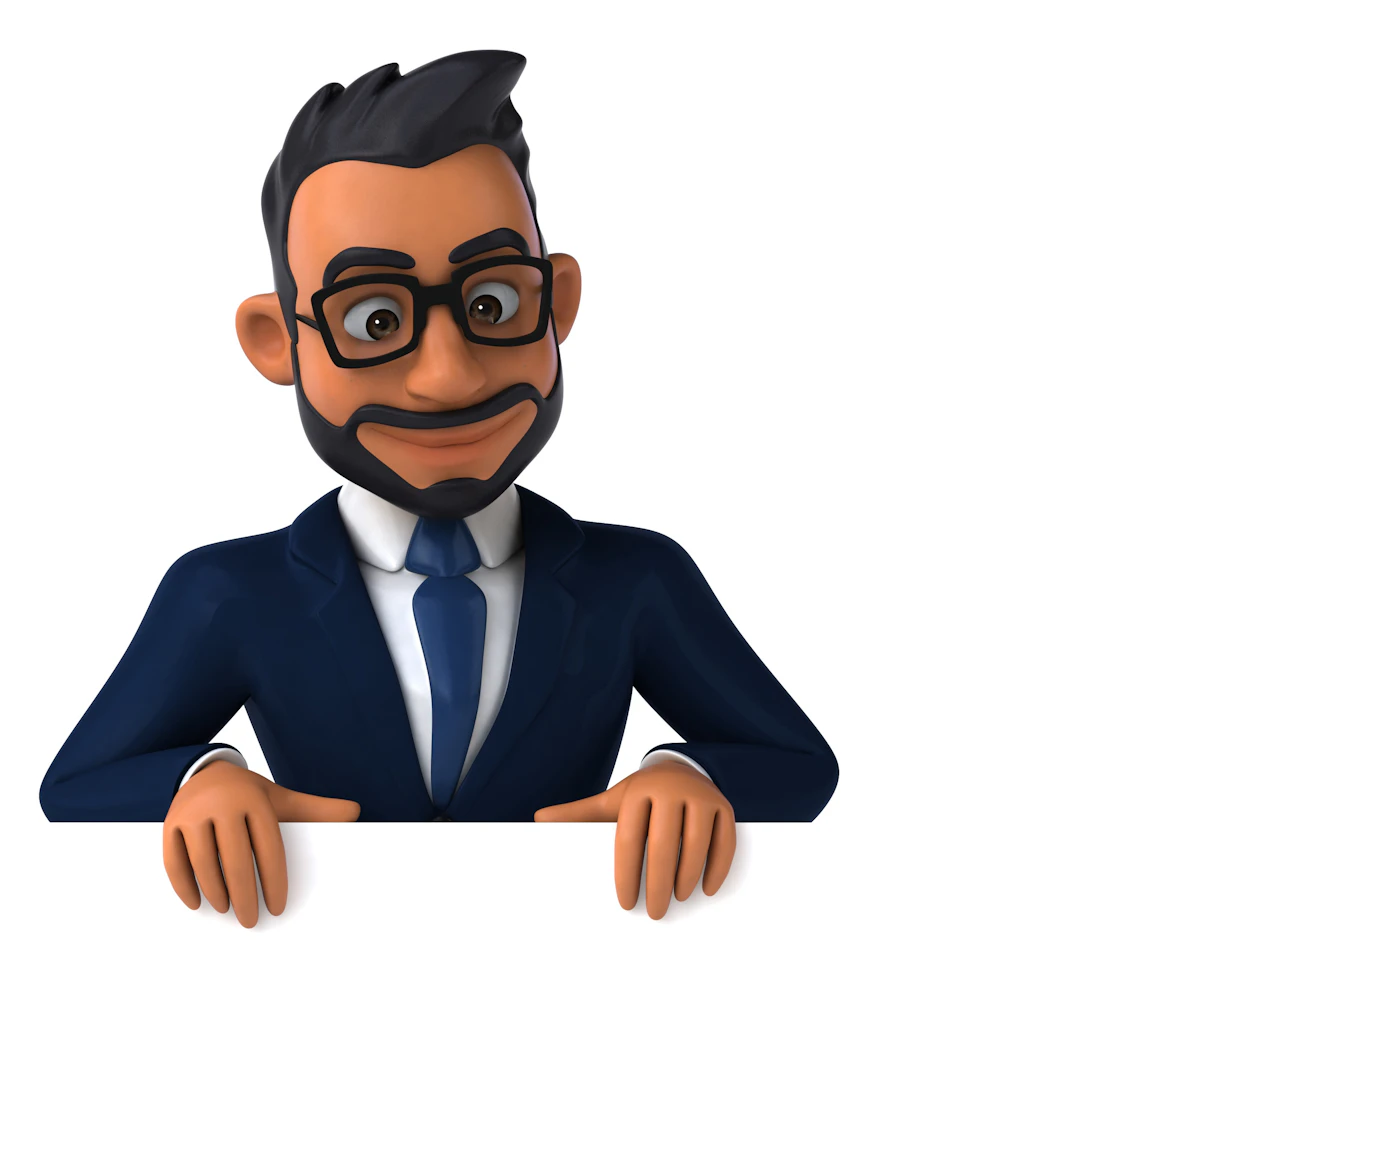
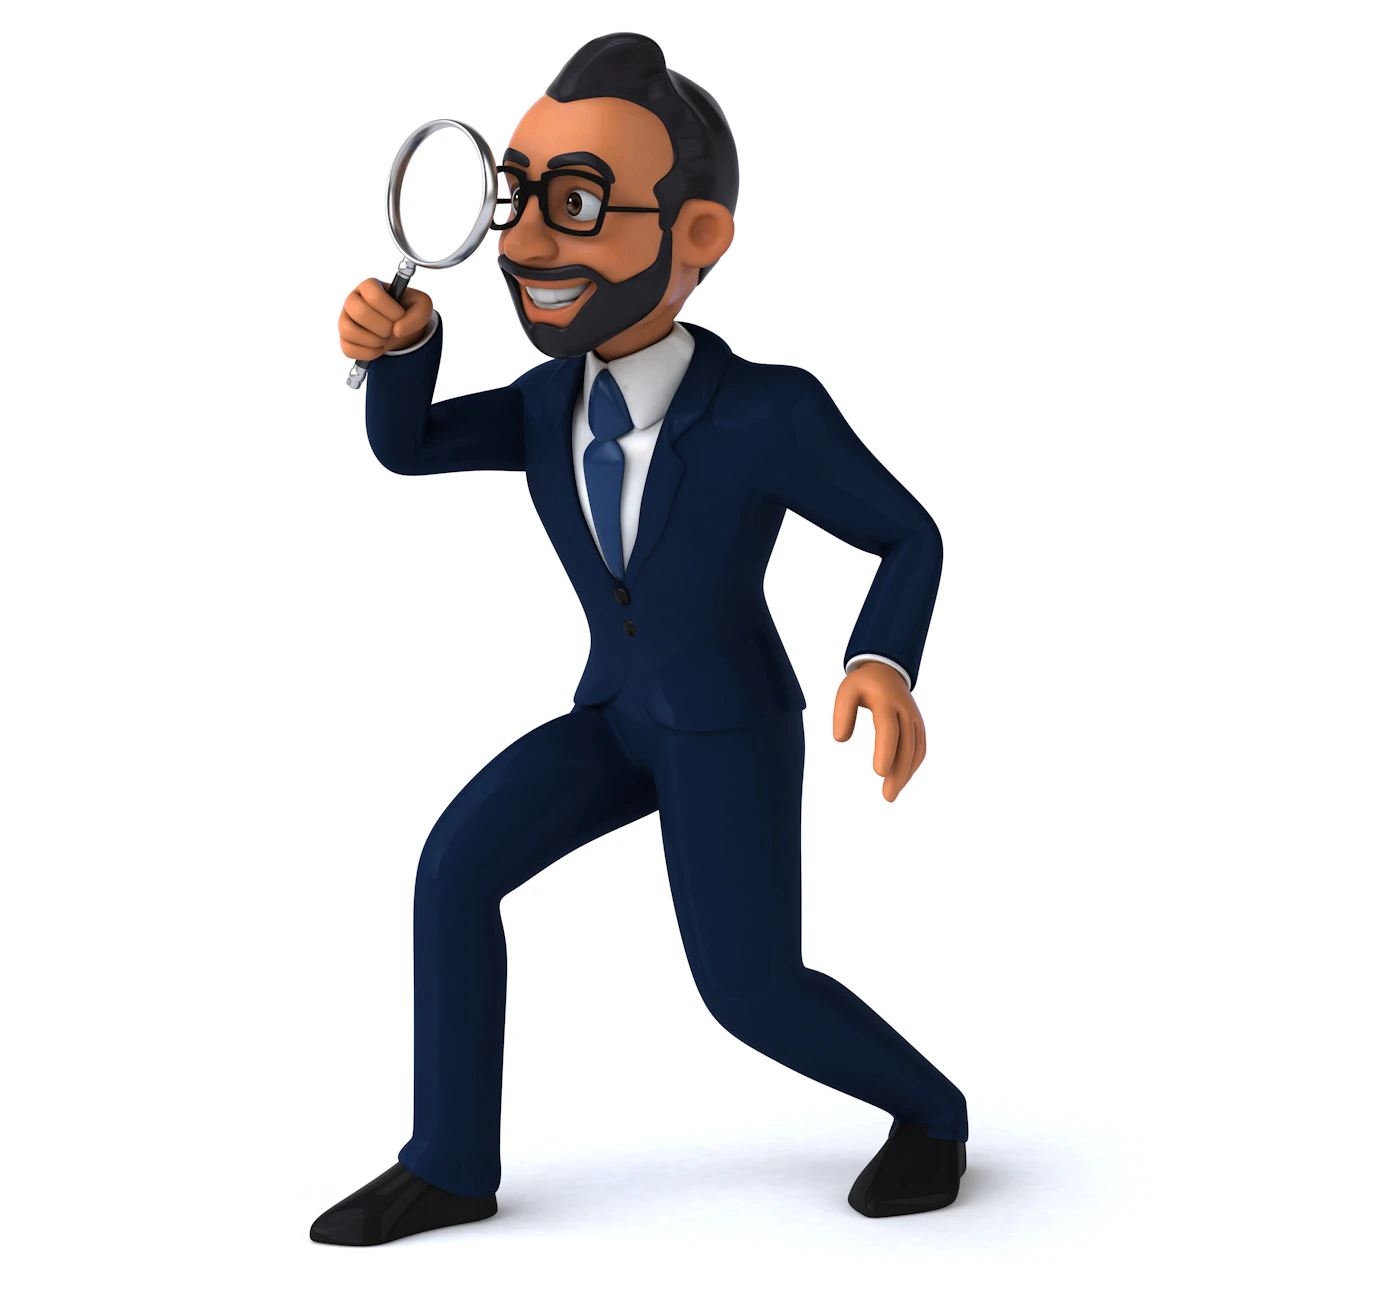
clor.in hero: full-figure 3D pose with the magnifying glass
Same character series by Julien Tromeur (Unsplash photo Ni5whKlGzI8,
Unsplash License), set on a white ground at 1400x1300.

Changed region(s): [[0.0307, 0.0, 0.7371, 0.9871]]

diff --git a/website/src/pages/Home.jsx b/website/src/pages/Home.jsx
@@ -764,7 +764,7 @@ export default function Home() {
           <div className="dx-hero-art" aria-hidden="true">
             <span className="dx-hero-disc" />
             <div className="dx-hero-photo">
-              <Photo name="hero-3d" w={1400} h={1167} alt="" lazy={false} />
+              <Photo name="hero-3d" w={1400} h={1300} alt="" lazy={false} />
             </div>
             <p className="dx-hero-stat">
               <strong className="num">4</strong>

diff --git a/website/README.md b/website/README.md
@@ -15,4 +15,4 @@ npm run preview   # http://localhost:5191, the built site
 - Design: light only. Pale blue ground (#F2F9FF), navy text (#002B54), blue hairlines (#C4DCF7), pill buttons, 12px controls, 21px panels; one face, Switzer (file in `src/fonts`, Fontshare free licence). Blaze Orange (#FF5400) is kept for primary actions, the current-page marker and the focus ring. The look lives in `src/styles/darwin.css`, loaded after `site.css` and `bands.css`; the older tokens sit at the top of `src/styles/site.css`.
 - Home leads with Books, then Payroll, People and Attendance, each beside its screen drawn in code with sample data (`src/components/Windows.jsx`). No animation; pictures wait for the new illustration style.
 - Before publishing: `CONTENT_CHECKLIST.md`.
-- Home hero picture `public/people/hero-3d-*.webp`: a 3D character by Julien Tromeur from Unsplash (photo QW3OUweGvlA), free under the Unsplash License, cropped to the figure.
+- Home hero picture `public/people/hero-3d-*.webp`: a 3D character by Julien Tromeur from Unsplash (photo Ni5whKlGzI8), free under the Unsplash License, set on a white ground.
